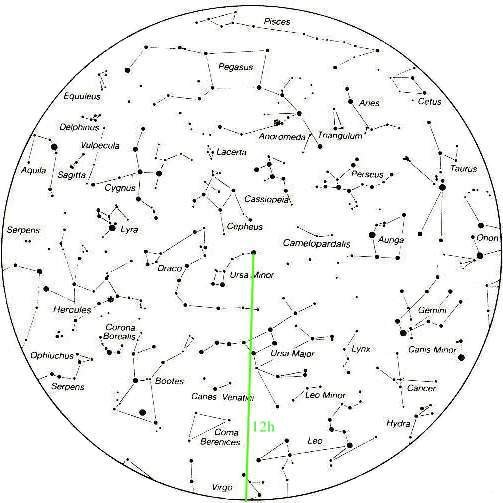
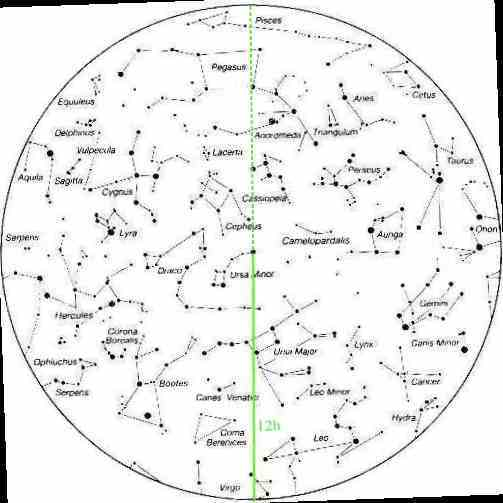
'update'

diff --git a/w/science/sky.html b/w/science/sky.html
@@ -15,12 +15,6 @@ img {
   position: relative;
   top: 10;
   left: 10;
-  opacity: 0.7;
-}
-.image2 {
-  position: absolute;
-  top: 10;
-  left: 10;
 }
 .bottom-right {
   position: absolute;
@@ -41,16 +35,15 @@ button {
 }
 .backCanvas{ 
     position:absolute; top:0px; left:0px;
-    background-color: rgba(255,0,0,.1);
+    background-color: rgba(0,0,0,0);
 }
 </style>
 </head>
 
 <body>
 <div class="parent" >  
-  <canvas class="backCanvas" id="backgrd" width="525" height="525"></canvas>
-  <img class="image2" src="./sky-horizon.jpg" />
   <img class="image1" src="./sky-stars.jpg" id="stars" onclick="nextHour();" />
+  <canvas class="backCanvas" id="backgrd" width="525" height="525"></canvas>
 </div> <br><pre>     <span id="sunrise"  style="font-size: 18px;"></span>                 <span id="time"  style="font-size: 18px;"></span>   &nbsp;                <span id="sunset"  style="font-size: 18px;"></span> </pre>
   <button onclick="nextMonth();" style="width:110px;">month ⬆</button> &nbsp;   
   <button onclick="nextDay();" style="width:85px;">day ⬆</button> &nbsp; 
@@ -62,13 +55,156 @@ button {
 </body>
 
 <script>
+   class Earth {
+     static LATIDUDE = 42.5* Math.PI / 180
+   }
+   class Sun {
+     constructor(date) {
+       this.hourAngle = Sun.hourAngle(date);
+       this.declination = Sun.declination(date);
+       this.setSunsetSunrise(Earth.LATIDUDE)
+     }
+     static hourAngle(date) {
+        const hours = date.getHours()
+        const angle = (hours - 44/60) / 24. * 360
+        return angle
+     }
+     static declination(date) {
+       const jan1Date = new Date((date.getFullYear(), 0, 1, 0, 0, 0, 0))
+       const days = (date - jan1Date) / 1000/60/60/24
+       // https://en.wikipedia.org/wiki/Position_of_the_Sun
+       const declination = -Math.asin(0.39779*Math.cos(0.98565 *Math.PI/180. *(days+10)+
+                           1.914 *Math.PI/180.* Math.sin(0.98565 *Math.PI/180.*(days-2))))
+       console.log('d='+(declination*180/Math.PI))
+       return declination
+     }
+     setSunsetSunrise(latitude) {
+       const sin_a = Math.sin(-.83 *Math.PI/180)
+       const sin_f = Math.sin(latitude)
+       const cos_f = Math.cos(latitude)
+       const sin_d = Math.sin(this.declination)
+       const cos_d = Math.cos(this.declination)
+       const hourAngle = Math.acos((sin_a - sin_f * sin_d) / cos_f / cos_d ) * 180 / Math.PI
+       const sunriseHour = 12.5 - hourAngle/15
+       const sunsetHour = 12.5 + hourAngle/15
+       const hours = date.getHours() + date.getMinutes() / 60
+       this.isDown = hours< sunriseHour || hours > sunsetHour 
+       console.log(this.sunriseTime)
+       console.log(this.sunsetTime)
+       this.sunriseTime = Sun.hourMin(sunriseHour)
+       this.sunsetTime = Sun.hourMin(sunsetHour)
+       console.log(this.sunriseTime)
+       console.log(this.sunsetTime)
+     }
+     static hourMin(decimalTime) {
+       const hour = Math.trunc(decimalTime)
+       const hh = hour < 13 ? hour : hour - 12
+       const minute = Math.trunc((decimalTime - hour) * 60)
+       const mm = minute < 10 ? '0'+minute : minute
+       return hh + ':' + mm
+     }
+   }
+   class NorthSky {
+     static EQUATOR_RADIUS = 229 // for Betelgeuse  R*cos(7.25 deg)=227 pixels
+     static drawZenith(sun) {
+       var ctx = NorthSky.getContext()
+       
+       ctx.beginPath();
+       // clockwise polygon covers image
+       var c = document.getElementById("backgrd");
+       ctx.moveTo(0, 0);
+       ctx.lineTo(c.height, 0);
+       ctx.lineTo(c.height, c.width);
+       ctx.lineTo(0, c.width);
+       ctx.closePath();
+       // hole to image is clockwise when sun is down
+       ctx.ellipse(261, 332, 214, 180, 0, 0, 2 * Math.PI, sun.isDown);
+       const backColor = sun.isDown ? 'black' : 'blue'
+       ctx.fillStyle = backColor;
+       ctx.globalAlpha = sun.isDown ? .2 : .1
+       ctx.strokeStyle = "rgba(0.1,0.5,0.5,0)";
+       ctx.lineWidth = 1;
+       ctx.fill();
+       ctx.globalAlpha = 1
+      
+       const y =  262 + NorthSky.EQUATOR_RADIUS * Math.sin(Earth.LATIDUDE)
+       ctx.font = "20px Arial";
+       ctx.fillText("Z", 262, y); 
+       ctx.fillText("N", 262, 172); 
+       ctx.fillText("S", 262, 502); 
+       ctx.fillText("E", 54, 350); 
+       ctx.fillText("W", 449, 350); 
+     }
+     static update(date, sun) {
+       NorthSky.clearCanvas()
+       NorthSky.rotate(date)
+       const sunRadius = NorthSky.EQUATOR_RADIUS * Math.cos(Earth.LATIDUDE+sun.declination)
+       updateSunriseSunset(sun) 
+       NorthSky.drawDisc (sun.hourAngle, sunRadius)
+       NorthSky.drawZenith(sun)
+     }
+     static rotate(date) {
+       const angle = NorthSky.daysAngle(date) + Sun.hourAngle(date)
+       var stars_img = document.getElementById('stars')
+       stars_img.style.transform = 'rotate(-'+angle+'deg)'
+       document.getElementById('date').innerHTML = date.toString().substr(0,21)
+       document.getElementById('time').innerHTML = hourMinAmPm(date)
+     }
+     static hourMinAmPm(date) {
+       let hours = date.getHours()
+       let minutes = date.getMinutes()
+       const ampm = hours >= 12 ? 'PM' : 'AM'
+       hours = hours % 12
+       hours = hours ? hours : 12 // the hour '0' should be '12'
+       minutes = minutes < 10 ? '0'+minutes : minutes
+       const strTime = hours + ':' + minutes + ' ' + ampm
+       return strTime
+     }
+     static daysAngle(date) {
+        const year = date.getFullYear()
+        const spring_equinox_date = new Date(year, 2, 21, 0, 0, 0, 0)
+        const days = (date - spring_equinox_date) / 1000/60/60/24
+        const angle = (days / 365.) * 360.
+        return angle
+     }
+     static clearCanvas() {
+       var c = document.getElementById("backgrd");
+       var ctx = c.getContext("2d")
+       ctx.clearRect(0, 0, c.width, c.height)
+     }
+     static getContext() {
+       var c = document.getElementById("backgrd");
+       var ctx = c.getContext("2d")
+       ctx.beginPath()
+       return ctx
+     }
+     static drawDisc (angle, pixelRadius) {
+       var ctx = NorthSky.getContext()
+       
+       const a = (180 + angle) * Math.PI/180.
+       const x = 262+ Math.round(pixelRadius * Math.sin (a))
+       const y = 262+ Math.round(pixelRadius * Math.cos (a))
+       ctx.fillStyle = 'red'
+       ctx.strokeStyle = 'black';
+       ctx.lineWidth = 10;
+       ctx.arc(x, y, 5, 0, 2 * Math.PI, 1)
+       ctx.fill() 
+   }
+
+   }
+   date = new Date()
+   sun  = new Sun(date)
+   NorthSky.update(date, sun);
+//---------------------------------------------------------------------------
    function nextHour() {
       date = new Date(date.getFullYear(), date.getMonth(), date.getDate(), date.getHours()+1, 0, 0, 0)
-      updateScreen(date) 
+      sun  = new Sun(date)
+      NorthSky.update(date, sun) 
    }
    function nextDay() {
       date = new Date(date.getFullYear(), date.getMonth(), date.getDate(), date.getHours()+24, 0, 0, 0)
-      updateScreen(date) 
+      sun  = new Sun(date)
+      NorthSky.update(date, sun) 
    }
    function nextMonth() {
       let year = date.getFullYear()
@@ -80,94 +216,21 @@ button {
         year += 1
       }
       date = new Date(year, month, date.getDate(), date.getHours(), 0, 0, 0)
-      updateScreen(date) 
+      sun  = new Sun(date)
+      NorthSky.update(date, sun) 
    }
-   function daysAngle(date) {
-      const year = date.getFullYear()
-      const spring_equinox_date = new Date(year, 2, 21, 0, 0, 0, 0)
-      const days = (date - spring_equinox_date) / 1000/60/60/24
-      const angle = (days / 365.) * 360.
-      return angle
-   }
-   function sunHourAngle(date) {
-      const hours = date.getHours()
-      const angle = (hours - 44/60) / 24. * 360.
-      return angle
-   }
-   function updateSunriseSunset(date) {
-     const jan1Date = new Date((date.getFullYear(), 0, 1, 0, 0, 0, 0))
-     const days = (date - jan1Date) / 1000/60/60/24
-     // https://en.wikipedia.org/wiki/Position_of_the_Sun
-     const declination = -Math.asin(0.39779*Math.cos(0.98565 *Math.PI/180. *(days+10)+
-                         1.914 *Math.PI/180.* Math.sin(0.98565 *Math.PI/180.*(days-2))))
-     // https://en.wikipedia.org/wiki/Sunrise_equation
-     const latitude = 42.5* Math.PI / 180.
-     const sin_a = Math.sin(-.83 *Math.PI/180)
-     const sin_f = Math.sin(latitude)
-     const cos_f = Math.cos(latitude)
-     const sin_d = Math.sin(declination)
-     const cos_d = Math.cos(declination)
-     const hourAngle = Math.acos((sin_a - sin_f * sin_d) / cos_f / cos_d ) * 180 / Math.PI
-     const sunriseHour = 12.5 - hourAngle/15
-     const sunsetHour = 12.5 + hourAngle/15
-     const hours = date.getHours() + date.getMinutes() / 60
-      if (hours< sunriseHour || hours > sunsetHour) {
+   function updateSunriseSunset(sun) {
+      if (sun.isDown) {
         backgroundColor='#8C8C8C'
         sunColor = 'black'
       } else {
         backgroundColor='#ECF9FF'
         sunColor = 'rgba(255,87,5,1)'
       }
-     document.getElementById('sunrise').innerHTML = '🌅 '+ hourMin(sunriseHour)
-     document.getElementById('sunset').innerHTML = '🌇 '+ hourMin(sunsetHour)
+     document.getElementById('sunrise').innerHTML = '🌅 '+ sun.sunriseTime
+     document.getElementById('sunset').innerHTML = '🌇 '+ sun.sunsetTime
      return [sunColor, backgroundColor]
    }
-   function drawDisc (angle, discColor, backgroundColor) {
-     var c = document.getElementById("backgrd");
-     var ctx = c.getContext("2d")
-     ctx.beginPath()
-     ctx.fillStyle = backgroundColor 
-     ctx.fillRect(0, 0, c.width, c.height)
-     const a = (180 + angle) * Math.PI/180.
-     const x = 262+ Math.round(260 * Math.sin (a))
-     const y = 262+ Math.round(260 * Math.cos (a))
-     ctx.fillStyle = sunColor 
-     ctx.arc(x, y, 5, 0, 2 * Math.PI, 1)
-     ctx.fill() 
-   }
    
-   function hourMin(decimalTime) {
-     const hour = Math.trunc(decimalTime)
-     const hh = hour < 13 ? hour : hour - 12
-     const minute = Math.trunc((decimalTime - hour) * 60)
-     const mm = minute < 10 ? '0'+minute : minute
-     return hh + ':' + mm
-   }
-   function hourMinAmPm(date) {
-     let hours = date.getHours()
-     let minutes = date.getMinutes()
-     const ampm = hours >= 12 ? 'PM' : 'AM'
-     hours = hours % 12
-     hours = hours ? hours : 12 // the hour '0' should be '12'
-     minutes = minutes < 10 ? '0'+minutes : minutes
-     const strTime = hours + ':' + minutes + ' ' + ampm
-     return strTime
-   }
-   function rotateStars(date) {
-     const angle = daysAngle(date) + sunHourAngle(date)
-     stars_img.style.transform = 'rotate(-'+angle+'deg)'
-     document.getElementById('date').innerHTML = date.toString().substr(0,21)
-     document.getElementById('time').innerHTML = hourMinAmPm(date)
-   }
-   function updateScreen(date) {
-     rotateStars(date)
-     ar = updateSunriseSunset(date)
-     angle = sunHourAngle(date)
-     drawDisc (angle, ar[0], ar[1])
-   }
-   stars_img = document.getElementById('stars')
-   stars_img.style.transform = 'rotate(-2deg)'
-   date = new Date()
-   updateScreen(date) 
 </script>
 </html>

diff --git a/w/contents.html b/w/contents.html
@@ -37,7 +37,7 @@ Christos
  <tr><td><b> </b></td> <td></td> <td><a href='./tech/linux_problems_solutions.html'>linux problems solutions</a></td><td style="font-size:12px;">2020-07-17</td><td>49</td></tr>
  <tr><td><b> </b></td> <td></td> <td><a href='./tech/ide_(interactive_development_environment)_commands.html'>ide (interactive development environment) commands</a></td><td style="font-size:12px;">2020-07-26</td><td>14</td></tr>
  <tr><td><b> </b></td> <td></td> <td><a href='./tech/git_(version_control)_commands.html'>git (version control) commands</a></td><td style="font-size:12px;">2020-07-17</td><td>41</td></tr>
- <tr><td><b>Science </b></td> <td></td> <td><a href='./science/sky.html'>sky</a></td><td style="font-size:12px;">2020-10-17</td><td>123</td></tr>
+ <tr><td><b>Science </b></td> <td></td> <td><a href='./science/sky.html'>sky</a></td><td style="font-size:12px;">2020-10-21</td><td>192</td></tr>
  <tr><td><b> </b></td> <td></td> <td><a href='./science/sample_of_medical_science_words.html'>sample of medical science words</a></td><td style="font-size:12px;">2020-07-20</td><td>30</td></tr>
  <tr><td><b> </b></td> <td></td> <td><a href='./science/refactor.html'>refactor</a></td><td style="font-size:12px;">2020-10-01</td><td>37</td></tr>
  <tr><td><b> </b></td> <td>Lists</td> <td><a href='./science/lists/aaa.html'>aaa</a></td><td style="font-size:12px;">2020-07-19</td><td>42</td></tr>
@@ -50,7 +50,7 @@ Christos
  <tr><td><b> </b></td> <td></td> <td><a href='./science/emotional-intelligence.html'>emotional-intelligence</a></td><td style="font-size:12px;">2020-07-10</td><td>20</td></tr>
  <tr><td><b> </b></td> <td></td> <td><a href='./science/covid_notes_-_philosophy,_politics,_psychology,_science.html'>covid notes - philosophy, politics, psychology, science</a></td><td style="font-size:12px;">2020-10-11</td><td>184</td></tr>
  <tr><td><b> </b></td> <td></td> <td><a href='./science/brain_exercise.html'>brain exercise</a></td><td style="font-size:12px;">2020-07-30</td><td>37</td></tr>
- <tr><td><b> </b></td> <td></td> <td><a href='./science/a.html'>a</a></td><td style="font-size:12px;">2020-10-16</td><td>21</td></tr>
+ <tr><td><b> </b></td> <td></td> <td><a href='./science/a.html'>a</a></td><td style="font-size:12px;">2020-10-21</td><td>34</td></tr>
  <tr><td><b>Recipes </b></td> <td></td> <td><a href='./recipes/vegetables_-_ratatouille,_ciambotta,_tourlou,_pisto.html'>vegetables - ratatouille, ciambotta, tourlou, pisto</a></td><td style="font-size:12px;">2020-07-26</td><td>74</td></tr>
  <tr><td><b> </b></td> <td></td> <td><a href='./recipes/rice_-_prasorizo,_fried,_rizogalo,_spanish.html'>rice - prasorizo, fried, rizogalo, spanish</a></td><td style="font-size:12px;">2020-07-14</td><td>86</td></tr>
  <tr><td><b> </b></td> <td></td> <td><a href='./recipes/potatoes_-_spanish_omelet,_scalloped.html'>potatoes - spanish omelet, scalloped</a></td><td style="font-size:12px;">2020-07-17</td><td>39</td></tr>
@@ -73,4 +73,4 @@ Christos
  <tr><td><b> </b></td> <td></td> <td><a href='./arts/fun_videos;_cartoons...html'>fun videos; cartoons..</a></td><td style="font-size:12px;">2020-07-17</td><td>36</td></tr>
  <tr><td><b> </b></td> <td></td> <td><a href='./arts/etymology_-_a_list_of_word_meanings.html'>etymology - a list of word meanings</a></td><td style="font-size:12px;">2020-10-14</td><td>32</td></tr>
  </table>
-<br><p style="font-size:12px;">2020-10-16/73664;  update
+<br><p style="font-size:12px;">2020-10-21/20655;  update
